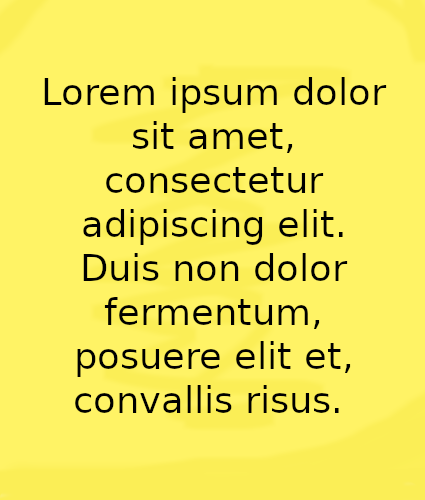
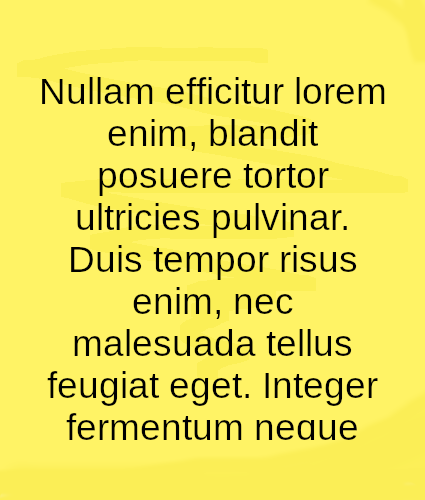
ADDED MORE POST ITS COLORS, REMOVED UNUSED FUNCTION, ADDED SUN

Changed region(s): [[0.0918, 0.33, 0.8871, 0.9], [0.0918, 0.15, 0.9176, 0.3]]

diff --git a/postit.html b/postit.html
@@ -28,17 +28,22 @@
   <div class="carousel-inner">
     <div class="carousel-item active p-2">
             <a href="#">
-      <img src="images/Post1.png" class="d-block mw-100 m-auto" alt="...">
+      <img src="images/Post1.png" class="d-block mw-100 m-auto car-image" alt="...">
             </a>
     </div>
     <div class="carousel-item p-2">
       <a href="#">
-      <img src="images/Post2.png" class="d-block mw-100 m-auto" alt="...">
+      <img src="images/Post2.png" class="d-block mw-100 m-auto car-image" alt="...">
             </a>
     </div>
     <div class="carousel-item p-2">
       <a href="#">
-      <img src="images/Post3.png" class="d-block mw-100 m-auto" alt="...">
+      <img src="images/Post3.png" class="d-block mw-100 m-auto car-image" alt="...">
+      </a>
+    </div>
+        <div class="carousel-item p-2">
+      <a href="#">
+      <img src="images/Post4.png" class="d-block mw-100 m-auto car-image" alt="...">
       </a>
     </div>
   </div>
@@ -74,7 +79,9 @@ viewBox="0 24 150 28" preserveAspectRatio="none" shape-rendering="auto">
 </g>
 </svg>
 </div>
-
+<!---Sun-->
+<img src="images/sun.svg"/ id="sun">
+<!---SCRIPTS-->
   <script src="scripts/script2.js"></script>
   <script src="https://cdn.jsdelivr.net/npm/bootstrap@5.1.3/dist/js/bootstrap.bundle.min.js" integrity="sha384-ka7Sk0Gln4gmtz2MlQnikT1wXgYsOg+OMhuP+IlRH9sENBO0LRn5q+8nbTov4+1p" crossorigin="anonymous"></script>
 </body>

diff --git a/styles/style2.css b/styles/style2.css
@@ -1,4 +1,4 @@
-body {
+body{
      overflow-x: hidden;
 }
 .line {
@@ -60,9 +60,9 @@ body {
   }
 }
 /*Flotado https://codepen.io/MarioDesigns/pen/woJgeo*/
-img {
+.car-image {
   	box-shadow: 0 5px 15px 0px rgba(0,0,0,0.4);
-    	animation: flotar 6s ease-in-out infinite;
+    	animation: flotar 2.8s ease-in-out infinite;
 }
 @keyframes flotar {
 	0% {
@@ -78,7 +78,7 @@ img {
 		transform: translatey(0px);
 	}
 }
-img:hover{
+.car-image:hover{
    filter: brightness(1.05);
 }
 /*https://codepen.io/goodkatz/pen/LYPGxQz?editors=1100*/
@@ -125,3 +125,19 @@ img:hover{
     min-height:40px;
   }
 }
+#sun {
+  width:100px;
+  position: fixed;
+  right: 0;
+  top: 0;
+   animation: rotar 4s linear infinite;
+}
+    @keyframes rotar {
+              0% {
+                transform: rotate(0deg);
+              }
+            
+              100% {
+                transform: rotate(360deg);
+              }
+            }

diff --git a/scripts/script2.js b/scripts/script2.js
@@ -5,10 +5,6 @@ let carouselbutton1 = document.getElementById('carouselbutton1');
 let carouselbutton2 = document.getElementById('carouselbutton2');
 let sound1 = new Audio('https://drive.google.com/uc?export=download&id=1tvHrCBnzKByMSxPkVJ2ei5yR6vZwnA5q');
 let sound2 = new Audio('https://drive.google.com/uc?export=download&id=18cxn99E5PHdOH7AtlvQK1dIdONDp5LOG');
-window.onload = function(){
-ambient.volume = 0.08;
-ambient.play();
-}
 line1.addEventListener('animationend', () => {
   carousel.classList.remove("ocultar")
   carousel.classList.add("enterpostit")
